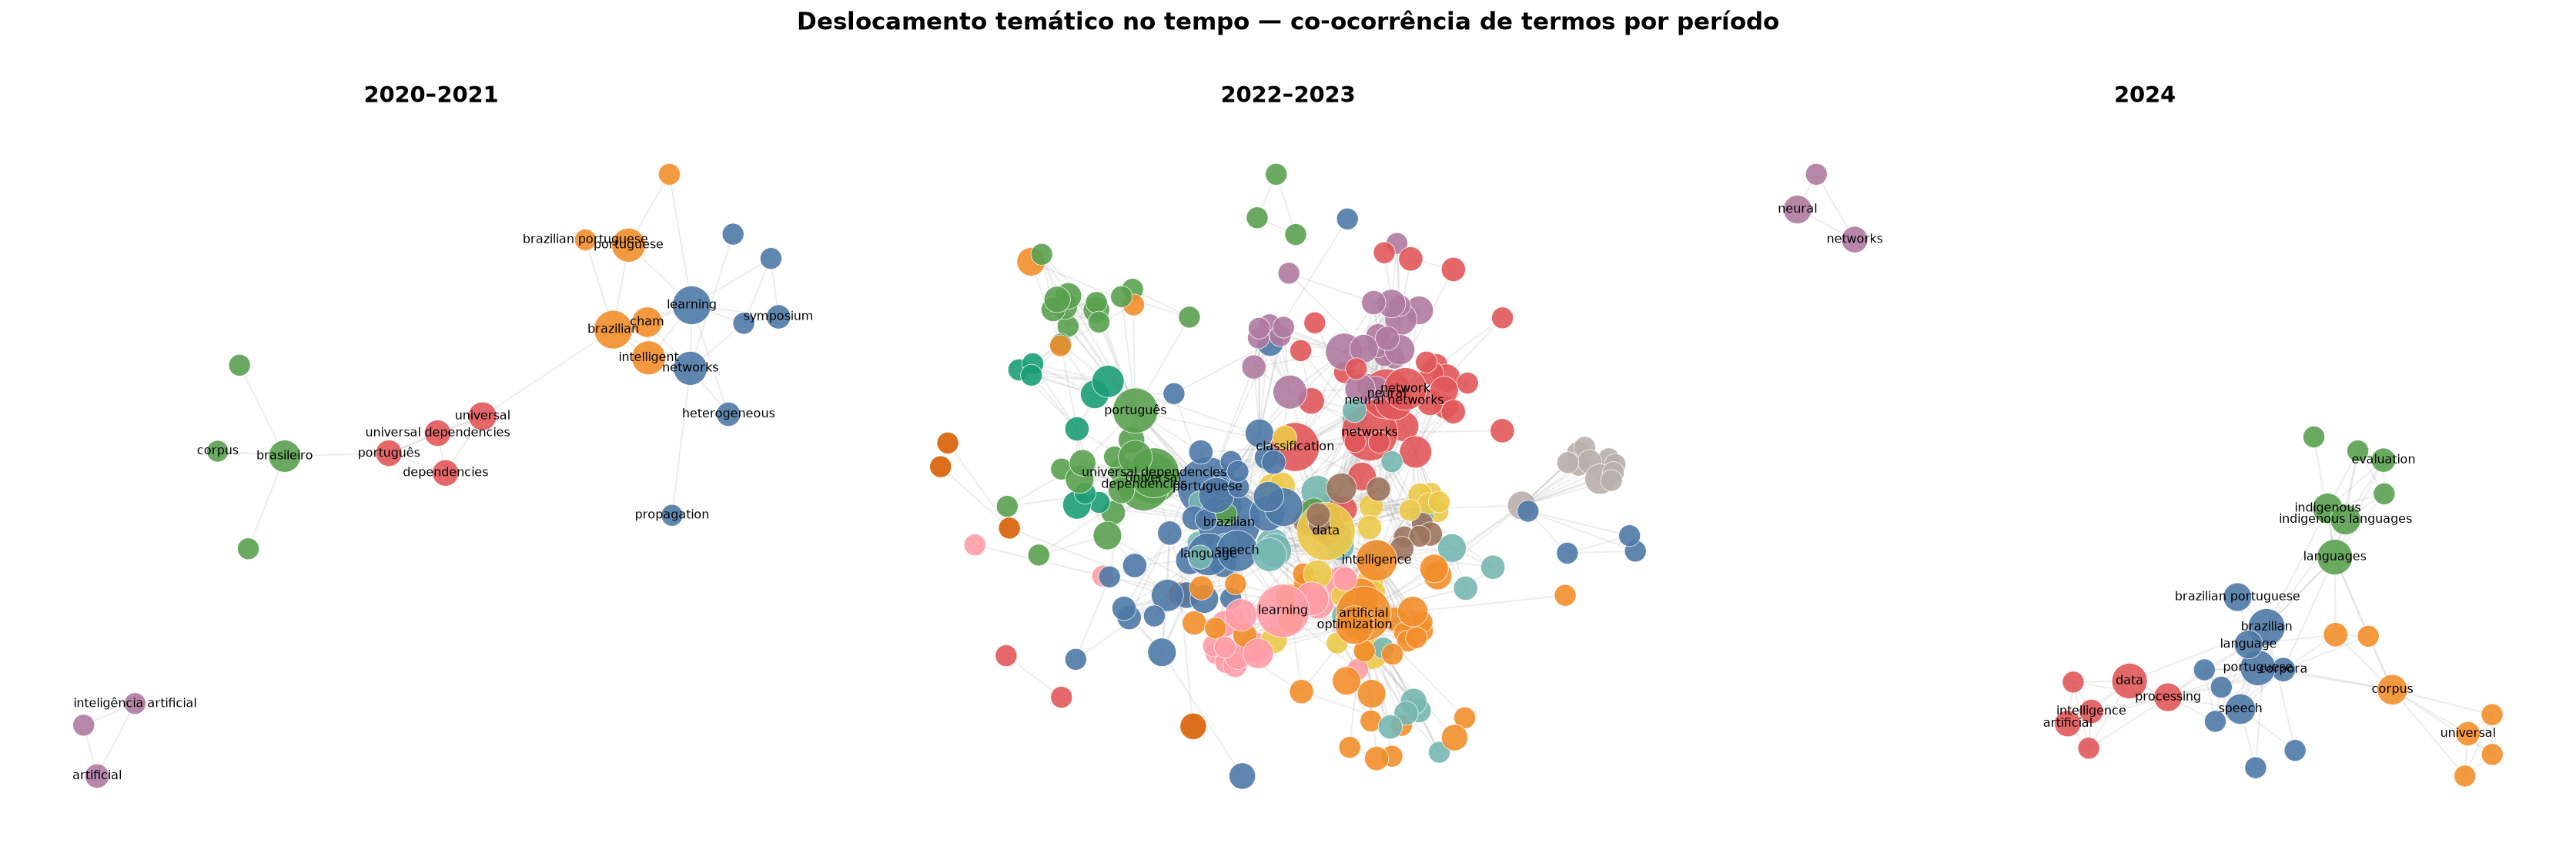
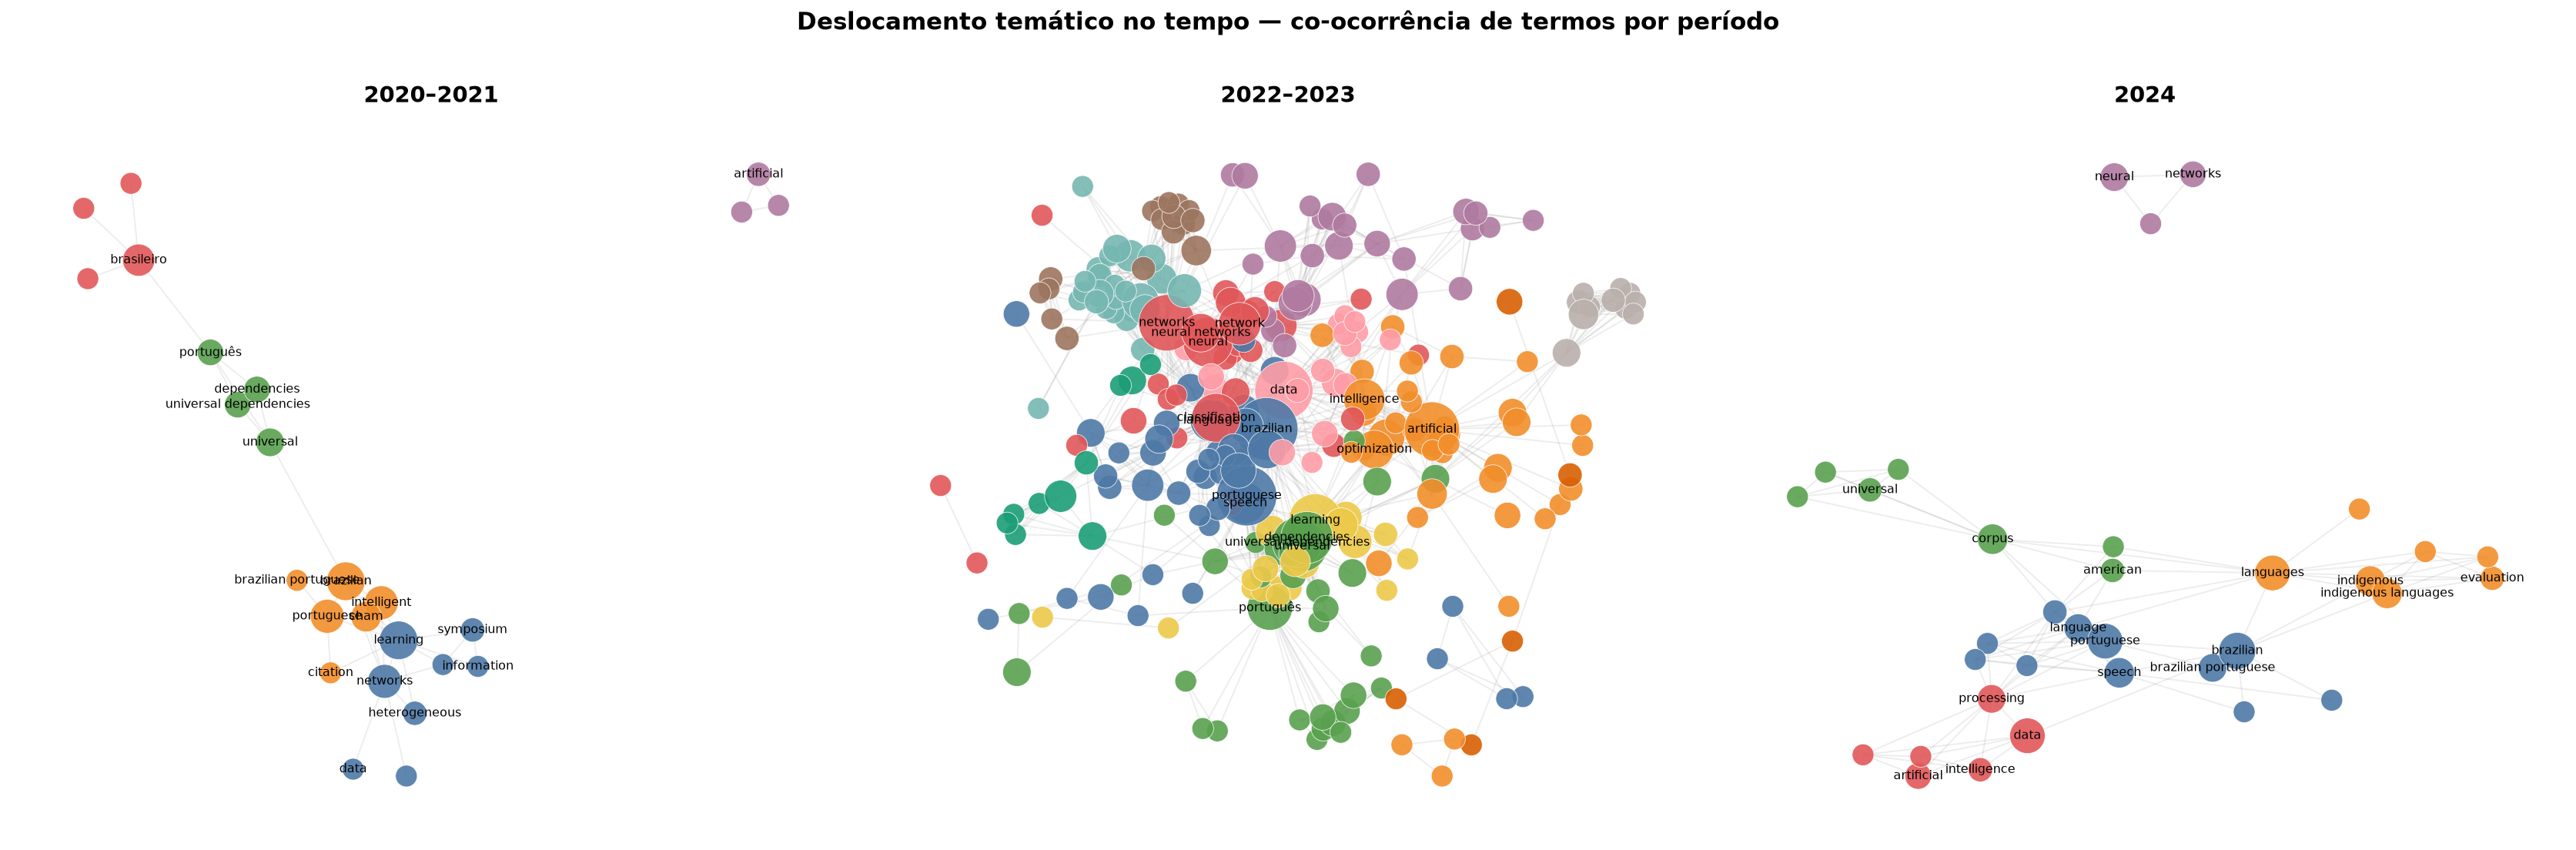
Corrige escrita do HTML em UTF-8 (Windows) e melhora casamento OpenAlex
- coword_analysis.py: grava a rede interativa com encoding UTF-8 explícito,
  evitando UnicodeEncodeError do pyvis no Windows (codec cp1252).
- enrich_metadata.py: avalia os 5 melhores candidatos do OpenAlex e escolhe
  o de maior similaridade de título (em vez do 1º), com limpeza de título
  mais robusta, para aumentar a cobertura do enriquecimento.

Claude-Session: https://claude.ai/code/session_01Fvrdaa5i99DsPUToDczGGv

diff --git a/enrich_metadata.py b/enrich_metadata.py
@@ -59,12 +59,24 @@ def normalize(s: str) -> str:
 def clean_query_title(title: str) -> str:
     """Recorta o rabo bibliográfico para melhorar o casamento por título."""
     t = str(title)
-    for marker in [". In ", " In: ", ".\" ", "\" ", " In The Proceedings"]:
+    # corta no 1º marcador de venue/periódico
+    for marker in [". In ", " In: ", ".\" ", "\" ", " In The Proceedings",
+                   " In Proceedings", ". Revista", ". Journal", ". IEEE",
+                   ", V. ", ", v. ", ", Vol", ". Anais", ". Estudos"]:
         idx = t.find(marker)
-        if idx > 25:  # só corta se já houver um título razoável antes
+        if idx > 20:  # só corta se já houver um título razoável antes
             t = t[:idx]
             break
+    # remove eventual lista de autores no início ("Sobrenome, Nome, ... .")
     return t.strip().strip('"').strip()
+
+
+def similarity(a: str, b: str) -> float:
+    """Sobreposição de tokens em relação à consulta (Jaccard assimétrico)."""
+    sa, sb = set(normalize(a).split()), set(normalize(b).split())
+    if not sa:
+        return 0.0
+    return len(sa & sb) / len(sa)
 
 
 def fetch_openalex(title: str, email: str, session: requests.Session) -> dict | None:
@@ -74,7 +86,7 @@ def fetch_openalex(title: str, email: str, session: requests.Session) -> dict | 
         return None
     params = {
         "search": query,
-        "per-page": 1,
+        "per-page": 5,  # avalia vários candidatos e escolhe o mais similar
         "mailto": email,
         "select": "title,abstract_inverted_index,keywords,concepts",
     }
@@ -85,12 +97,15 @@ def fetch_openalex(title: str, email: str, session: requests.Session) -> dict | 
         results = r.json().get("results", [])
         if not results:
             return None
-        cand = results[0]
-        # checagem leve de similaridade para evitar falso-positivo grosseiro
-        a, b = set(normalize(query).split()), set(normalize(cand.get("title", "")).split())
-        if not a or len(a & b) / len(a) < 0.4:
+        best, best_sim = None, 0.0
+        for cand in results:
+            sim = similarity(query, cand.get("title", "") or "")
+            if sim > best_sim:
+                best, best_sim = cand, sim
+        # limiar moderado: aceita casamentos parciais, rejeita ruído grosseiro
+        if best is None or best_sim < 0.45:
             return None
-        return cand
+        return best
     except requests.RequestException:
         return None
 

diff --git a/coword_analysis.py b/coword_analysis.py
@@ -329,8 +329,14 @@ def draw_html(G, node2comm, path):
     for u, v in G.edges():
         net.add_edge(u, v, value=G[u][v]["weight"])
     net.set_options('{"physics": {"stabilization": {"iterations": 200}}}')
-    # write_html evita a dependência de notebook/template
-    net.write_html(str(path), notebook=False)
+    # Gera o HTML e grava em UTF-8 explicitamente. Em Windows, o write_html do
+    # pyvis usa o codec padrão (cp1252) e quebra com caracteres acentuados
+    # (UnicodeEncodeError). Gerar a string e escrever com encoding="utf-8" evita.
+    try:
+        html = net.generate_html(notebook=False)
+    except TypeError:
+        html = net.generate_html()
+    Path(path).write_text(html, encoding="utf-8")
 
 
 # ──────────────────────────────────────────────────────────────────────────────